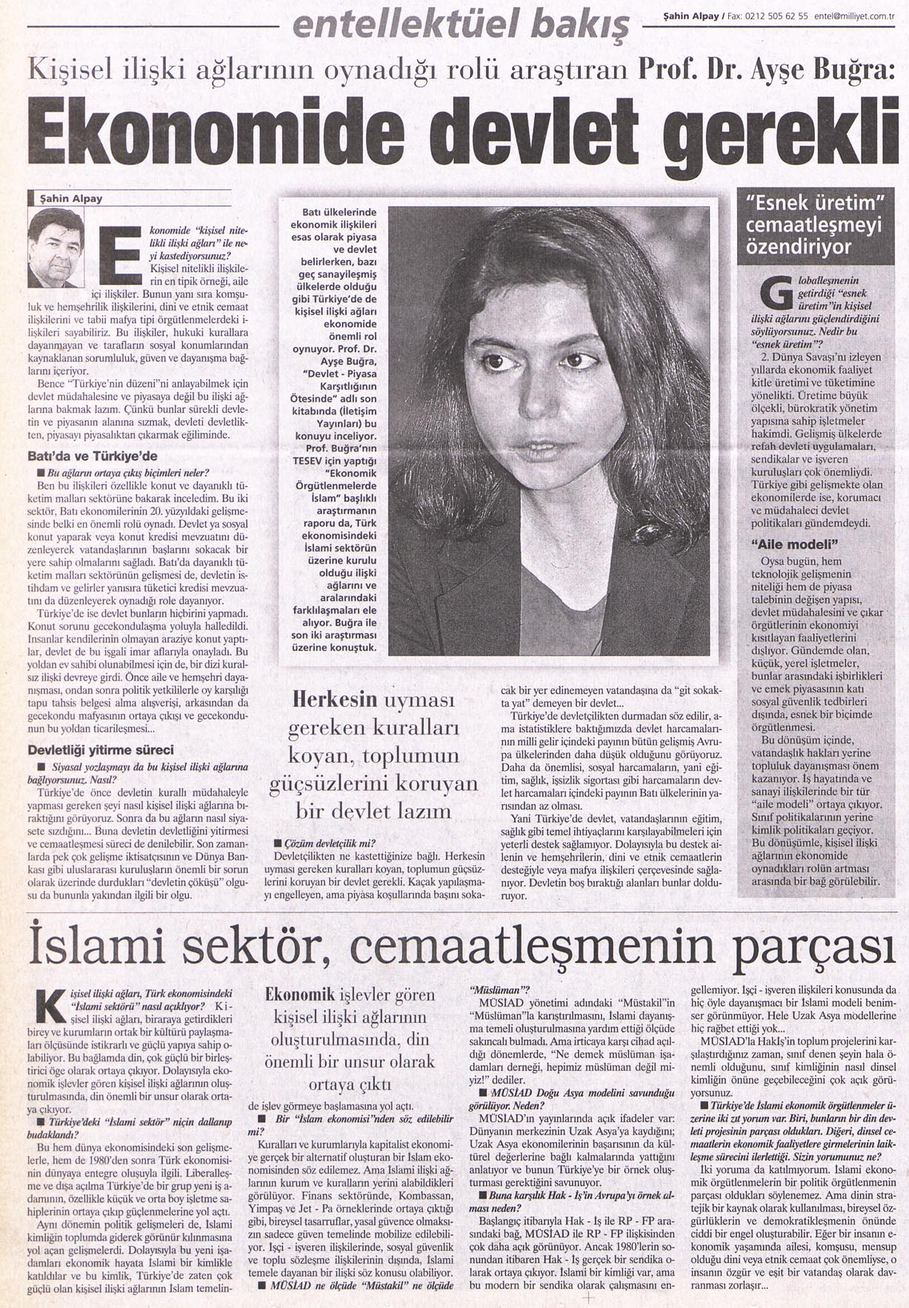
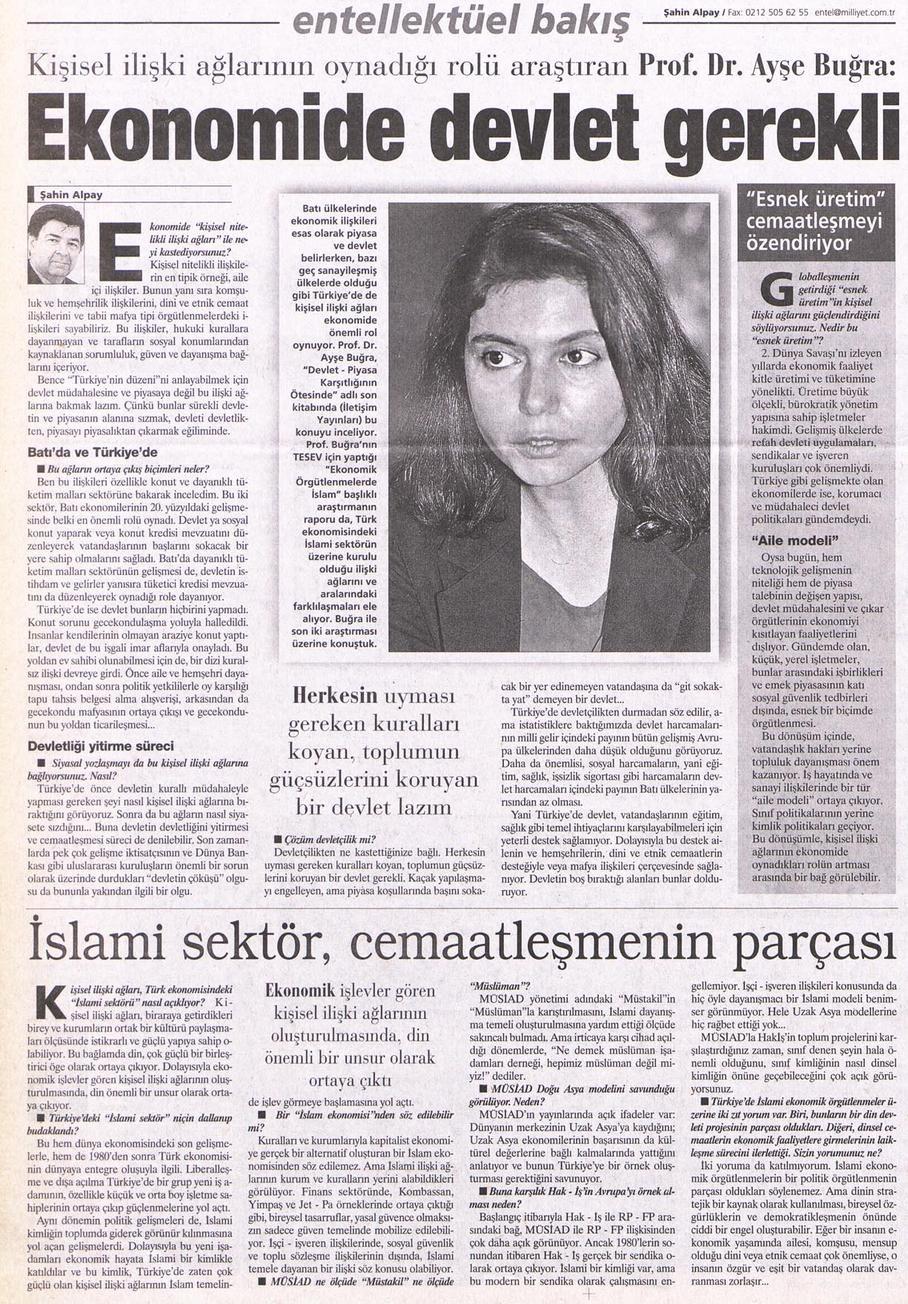
Refresh 2000 Milliyet interview clippings, add Talat interview
Replace the three 2000 Söyleşiler clippings (Ayşe Buğra, Norman
Stone, Rıza Türmen) with higher-quality re-crops. Drop "Mikrasiates"
(4 Kasım 2000) — not an interview and not part of the updated set —
and add the 29 Kasım 2000 interview with Mehmet Ali Talat on
Denktaş's withdrawal from indirect Cyprus talks.

Changed region(s): [[0.031, 0.0, 0.9927, 1.0], [0.4653, 0.4375, 0.4963, 0.5]]

diff --git a/src/archive/tr/columns/milliyet.ts b/src/archive/tr/columns/milliyet.ts
@@ -2276,20 +2276,20 @@ export const milliyetColumnSeeds: ArchiveItemSeed[] = [
     ],
   },
   {
-    slug: 'mikrasiates',
-    title: "'Mikrasiates'",
-    date: '4 Kasım 2000',
-    subtitle: 'Milliyet, Entellektüel Bakış, 4 Kasım 2000, s. 26',
+    slug: 'denktas-cozum-istemiyor',
+    title: "Denktaş çözüm istemiyor...",
+    date: '29 Kasım 2000',
+    subtitle: "Milliyet, Entellektüel Bakış, 29 Kasım 2000, s. 27 — Mehmet Ali Talat ile söyleşi",
     excerpt:
-      "Oxford antropoloji profesörü Renée Hirschon'un Pire'ye yerleşmiş Anadolu Rumları ('Mikrasiates') üzerine araştırmasının Türkçe çevirisini ('Mübadele Çocukları') tanıtan bir yazı; Hirschon'un araştırmasına göre Anadolu'daki yaşamlarına dair anıları olumlu olan mültecilerin, sorunların halklar arası nefretten değil politikacılardan kaynaklandığını düşündüklerini aktarır.",
+      "KKTC muhalefet lideri, Cumhuriyetçi Türk Partisi başkanı Mehmet Ali Talat ile Rauf Denktaş'ın Kıbrıs'ta dolaylı görüşmelerden çekilme kararı üzerine söyleşi; Talat, çözüm istediklerini ama Denktaş ve Ankara'nın federasyonla Kıbrıs Türklüğünün 'mahvolacağı' korkusuyla hareket ettiğini, çözümsüzlüğün adayı 1974 öncesine döndürme riski taşıdığını anlatıyor.",
     sourceNote: "Şahin Alpay'ın kişisel arşivinden, Entellektüel Bakış sayfasından kupür.",
-    tags: ['Renée Hirschon', 'mübadele', 'Anadolu Rumları', 'söyleşi', '2000'],
+    tags: ['Mehmet Ali Talat', 'Rauf Denktaş', 'Kıbrıs sorunu', 'KKTC', 'söyleşi', '2000'],
     pieceKind: 'interview',
     clippings: [
       {
-        src: '/archive/clippings/milliyet/2000/mikrasiates/cover.png',
-        alt: 'Milliyet, 4 Kasım 2000, s. 26',
-        pageLabel: 's. 26',
+        src: '/archive/clippings/milliyet/2000/denktas-cozum-istemiyor/cover.png',
+        alt: 'Milliyet, 29 Kasım 2000, s. 27',
+        pageLabel: 's. 27',
       },
     ],
   },
